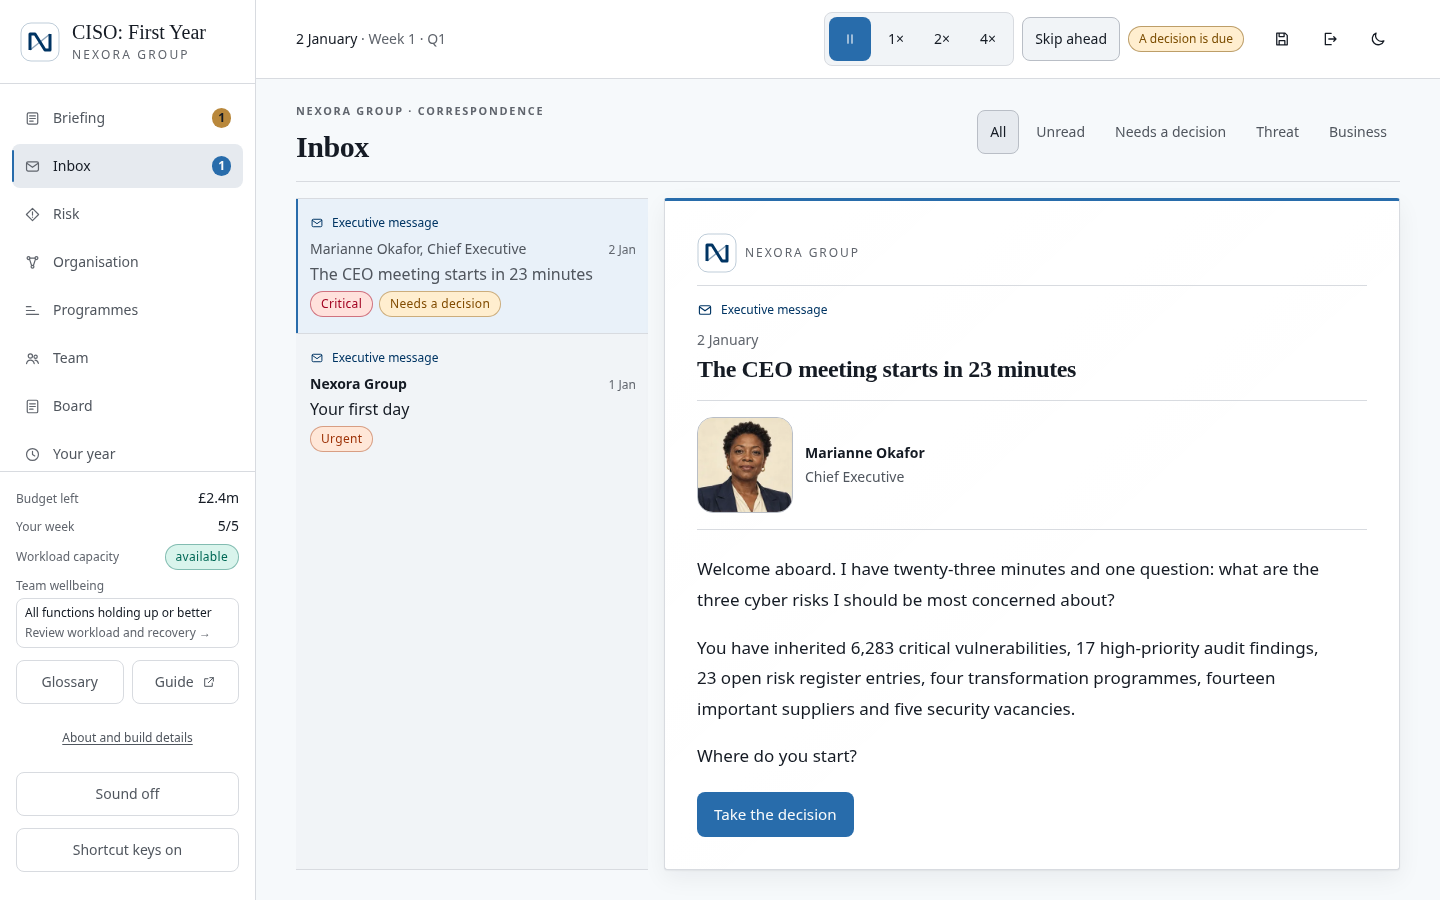
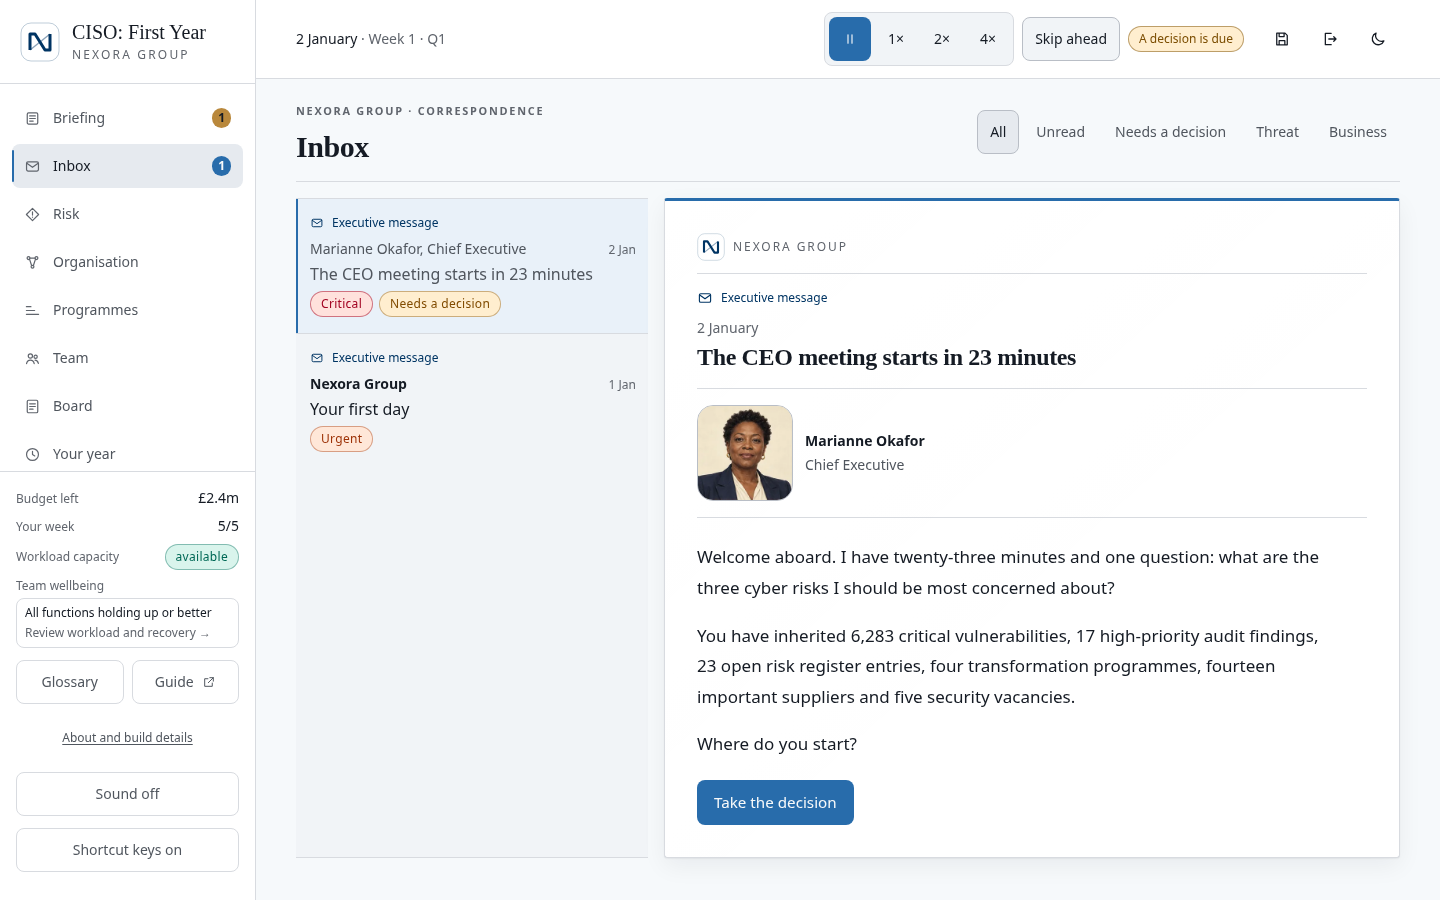
Polish compact dates, tab cues and programme layout

Changed region(s): [[0.4688, 0.2489, 0.9062, 0.9333]]

diff --git a/src/screens/risk/RiskScreen.tsx b/src/screens/risk/RiskScreen.tsx
@@ -3,12 +3,13 @@
  * assumptions underneath them — never a single flat spreadsheet.
  */
 import { useMemo, useState } from 'react'
-import { Badge, Button, Card, CardBody, EmptyState, Tab, TabList, TabPanel, Tabs } from '@/components/ui/primitives'
+import { Badge, Button, Card, CardBody, EmptyState, Tab, TabPanel, Tabs } from '@/components/ui/primitives'
 import { useCampaignIndex, useGameStore } from '@/store/game-store'
 import { assumptionViews, evidenceList, visibleRisks } from '@/store/selectors'
 import { InvestigationPanel } from '@/components/risk/InvestigationPanel'
 import { HypothesisWorkspace } from '@/components/risk/HypothesisWorkspace'
 import { PatternNotice } from '@/components/risk/PatternNotice'
+import { RiskTabStrip } from '@/components/risk/RiskTabStrip'
 import { RiskDetail } from '@/components/risk/RiskDetail'
 import { RISK_BAND_LABEL } from '@/game/risk/bands'
 import { bandTone, confidenceTone, evidenceSourceLabel, shortDate, statusLabel, trendBadge } from '@/lib/formatting/labels'
@@ -40,7 +41,7 @@ export function RiskScreen() {
       </header>
 
       <Tabs value={tab} onChange={setTab}>
-        <TabList label="Risk workspace" className="risk-tabs">
+        <RiskTabStrip>
           {/* The count is what the tab lists: it counted open risks only, and
               read 11 over a list of 13 to 15 (AI second-year re-test). */}
           <Tab value="risks" count={risks.length}>Risk scenarios</Tab>
@@ -48,8 +49,7 @@ export function RiskScreen() {
           <Tab value="hypotheses">Hypotheses</Tab>
           <Tab value="investigate">Investigate</Tab>
           <Tab value="assumptions" count={failedAssumptions}>Assumptions</Tab>
-        </TabList>
-        <p className="mt-1 text-right text-xs text-ink-faint md:hidden">Swipe for more tabs →</p>
+        </RiskTabStrip>
 
         <TabPanel value="risks">
           {risks.length === 0 ? (
@@ -74,8 +74,8 @@ export function RiskScreen() {
                       <h3 className="font-medium text-balance">{risk.title}</h3>
                       <p className="mt-1 line-clamp-2 text-sm text-ink-muted text-pretty">{risk.statement}</p>
                       <div className="risk-comparison-grid mt-3">
-                        <div><p className="comparison-label">Residual risk</p><Badge tone={bandTone(risk.band)}>{RISK_BAND_LABEL[risk.band]} residual</Badge></div>
-                        <div><p className="comparison-label">Confidence</p><Badge tone={confidenceTone(risk.confidence)} glyph={false}>{risk.confidence} confidence</Badge></div>
+                        <div><p className="comparison-label">Residual risk</p><Badge tone={bandTone(risk.band)}>{RISK_BAND_LABEL[risk.band]}</Badge></div>
+                        <div><p className="comparison-label">Confidence</p><Badge tone={confidenceTone(risk.confidence)} glyph={false}>{risk.confidence}</Badge></div>
                         <div><p className="comparison-label">Owner</p><p className="text-sm">{risk.ownerName}</p></div>
                         <div><p className="comparison-label">Next review</p><p className={cn('text-sm', risk.reviewDue && 'font-medium text-warning')}>{risk.reviewDue ? 'Due now' : `in ${risk.daysUntilReview} days`}</p></div>
                       </div>

diff --git a/src/screens/inbox/InboxScreen.tsx b/src/screens/inbox/InboxScreen.tsx
@@ -145,7 +145,7 @@ export function InboxScreen() {
                       : 'border-transparent hover:bg-surface-2',
                   )}
                 >
-                  <p className={`message-kind message-kind-${MESSAGE_KIND[message.type].style} mb-2 flex items-center gap-2 text-xs font-medium`}>
+                    <p className={`message-kind message-kind-${MESSAGE_KIND[message.type].style} mb-2 flex items-center gap-2 text-xs font-medium`}>
                     <Icon name={MESSAGE_KIND[message.type].icon} size={14} />{MESSAGE_KIND[message.type].label}
                   </p>
                   <div className="flex items-baseline justify-between gap-2">
@@ -174,14 +174,16 @@ export function InboxScreen() {
             <Card id="message-reader" ref={reader} className={`correspondence message-reader scroll-mt-36 message-reader-${MESSAGE_KIND[selected.type].style} md:sticky md:top-24 md:self-start`}>
               <CardBody>
                 <div className="mb-4 md:hidden"><Button variant="secondary" size="sm" onClick={backToMessages}>Back to messages</Button></div>
-                <div className="mb-4 flex items-center gap-2 border-b border-line pb-3">
-                  <NexoraMark className="h-7 w-7" />
+                <div className="message-letterhead mb-2 flex items-center gap-2 border-b border-line pb-2 md:mb-4 md:pb-3">
+                  <NexoraMark className="h-5 w-5 md:h-7 md:w-7" />
                   <span className="text-xs font-medium uppercase tracking-[0.16em] text-ink-faint">Nexora Group</span>
                 </div>
-                <p className={`message-kind message-kind-${MESSAGE_KIND[selected.type].style} mb-3 flex items-center gap-2 text-xs font-medium`}>
-                  <Icon name={MESSAGE_KIND[selected.type].icon} size={16} />{MESSAGE_KIND[selected.type].label}
-                </p>
-                <p className="text-sm text-ink-faint">{formatGameDate(selected.day).label}</p>
+                <div className="message-metadata">
+                  <p className={`message-kind message-kind-${MESSAGE_KIND[selected.type].style} mb-1 flex items-center gap-2 text-xs font-medium md:mb-3`}>
+                    <Icon name={MESSAGE_KIND[selected.type].icon} size={16} />{MESSAGE_KIND[selected.type].label}
+                  </p>
+                  <p className="text-xs text-ink-faint md:text-sm">{formatGameDate(selected.day).label}</p>
+                </div>
                 <h2 ref={heading} tabIndex={-1} className="mt-1 font-display text-2xl leading-tight text-balance">{selected.subject}</h2>
                 <div className="sender-signature mt-2 md:mt-4 flex items-center gap-3">
                   {sender && <PersonPortrait key={sender.id} id={sender.id} name={sender.name} size={important ? 'large' : 'small'} />}

diff --git a/tests/e2e/reading-flow.spec.ts b/tests/e2e/reading-flow.spec.ts
@@ -46,6 +46,10 @@ test('risk cards align the same four public facts and programmes retain focus wh
   await goTo(page, 'Risk')
   const cards = page.locator('.risk-comparison-grid')
   expect(await cards.count()).toBeGreaterThan(0)
+  for (const badge of await cards.locator('.rounded-full').all()) {
+    await expect(badge).not.toContainText(/residual|confidence/)
+    expect(await badge.evaluate((element) => element.getBoundingClientRect().height)).toBeLessThan(40)
+  }
   for (const card of await cards.all()) await expect(card.locator('.comparison-label')).toHaveText(['Residual risk', 'Confidence', 'Owner', 'Next review'])
   await expectNoHorizontalScroll(page)
   await goTo(page, 'Programmes')
@@ -72,6 +76,11 @@ test('compact resources stay readable and the final risk tab remains reachable b
       expect(await value.evaluate((element) => element.scrollWidth <= element.clientWidth)).toBe(true)
     }
   }
+  if (page.viewportSize()!.width < 640) {
+    const date = page.locator('.header-date')
+    expect(await date.evaluate((element) => element.scrollWidth <= element.clientWidth)).toBe(true)
+    await expect(date).toHaveText(/\d+ [A-Z][a-z]{2} · W\d+/)
+  }
   await goTo(page, 'Risk')
   await expect(page.getByRole('heading', { name: 'Select a risk', exact: true })).toBeVisible()
   const tabs = page.getByRole('tablist', { name: 'Risk workspace' })
@@ -82,13 +91,21 @@ test('compact resources stay readable and the final risk tab remains reachable b
   await expect(last).toBeFocused()
   await expect(last).toHaveAttribute('aria-selected', 'true')
   await expect(last).toBeInViewport()
+  if (page.viewportSize()!.width < 768) await expect(page.locator('.risk-tab-cue')).toHaveText('← More tabs')
   await last.press('Home')
   await expect(first).toBeFocused()
   await expect(first).toBeInViewport()
   if (page.viewportSize()!.width < 768) {
     const rows = await tabs.getByRole('tab').evaluateAll((elements) => elements.map((element) => Math.round(element.getBoundingClientRect().top)))
     expect(new Set(rows).size).toBe(1)
-    await expect(page.getByText('Swipe for more tabs →')).toBeVisible()
+    await expect(page.locator('.risk-tab-cue')).toHaveText('More tabs →')
+    await tabs.evaluate((element) => { element.scrollLeft = (element.scrollWidth - element.clientWidth) / 2 })
+    await expect(page.locator('.risk-tab-cue')).toHaveText('← More tabs →')
+    const viewport = page.viewportSize()!
+    await page.setViewportSize({ ...viewport, width: 760 })
+    await expect(page.locator('.risk-tab-cue')).toBeEmpty()
+    await page.setViewportSize(viewport)
+
   }
   await expectNoHorizontalScroll(page)
 })

diff --git a/src/components/layout/AppShell.tsx b/src/components/layout/AppShell.tsx
@@ -19,7 +19,7 @@ import { NexoraMark } from '@/components/game/NexoraMark'
 import { RecordingControl } from '@/components/game/RecordingControl'
 import { SoundToggle } from '@/components/game/SoundToggle'
 import { ShortcutsToggle } from '@/components/game/ShortcutsToggle'
-import { attentionLeft, money } from '@/lib/formatting/labels'
+import { attentionLeft, money, shortDate } from '@/lib/formatting/labels'
 import { capacityTone } from '@/lib/formatting/labels'
 
 export function AppShell({ children }: { children: ReactNode }) {
@@ -338,12 +338,14 @@ function ShellHeader() {
       {/* Phones share the second row between clock controls and labelled resources. */}
       <div className="mx-auto flex w-full max-w-6xl flex-wrap items-center gap-x-2 gap-y-1.5 px-4 py-2 sm:gap-x-4 sm:px-6 sm:py-3">
         <div className="order-1 min-w-0 flex-1 basis-[calc(100%-10rem)] sm:basis-auto lg:flex-none">
-          <p className="truncate text-sm font-medium">
+          <p className="header-date text-sm font-medium sm:hidden">
+            <span aria-hidden="true">{shortDate(state.currentDay)} · W{view.weekLabel.replace('Week ', '')}</span>
+            <span className="sr-only">{view.dateLabel}, {view.weekLabel}, quarter {view.quarter}</span>
+          </p>
+          <p className="hidden truncate text-sm font-medium sm:block">
             {view.dateLabel}
             <span className="text-ink-faint">
               {' · '}
-              {/* On a phone the line has room for the date and the week; the
-                  Briefing's masthead says which year it is. */}
               {view.yearLabel && <span className="hidden sm:inline">{view.yearLabel} · </span>}
               {view.weekLabel} · Q{view.quarter}
             </span>

diff --git a/src/components/risk/RiskTabStrip.tsx b/src/components/risk/RiskTabStrip.tsx
@@ -1,0 +1,28 @@
+import { useEffect, useRef, useState, type ReactNode } from 'react'
+import { TabList } from '@/components/ui/primitives'
+
+/** Describe only the tabs actually hidden beyond either edge. */
+export function RiskTabStrip({ children }: { children: ReactNode }) {
+  const strip = useRef<HTMLDivElement>(null)
+  const [cue, setCue] = useState('')
+  useEffect(() => {
+    const element = strip.current
+    if (!element) return
+    const measure = () => {
+      const before = element.scrollLeft > 1
+      const after = element.scrollWidth - element.clientWidth - element.scrollLeft > 1
+      setCue(before && after ? '← More tabs →' : before ? '← More tabs' : after ? 'More tabs →' : '')
+    }
+    const observer = typeof ResizeObserver === 'undefined' ? undefined : new ResizeObserver(measure)
+    observer?.observe(element)
+    element.querySelectorAll('[role="tab"]').forEach((tab) => observer?.observe(tab))
+    element.addEventListener('scroll', measure, { passive: true })
+    window.addEventListener('resize', measure)
+    measure()
+    return () => { observer?.disconnect(); element.removeEventListener('scroll', measure); window.removeEventListener('resize', measure) }
+  }, [])
+  return <>
+    <TabList ref={strip} label="Risk workspace" className="risk-tabs">{children}</TabList>
+    <p className="risk-tab-cue mt-1 min-h-4 text-right text-xs text-ink-faint md:hidden" aria-hidden="true">{cue}</p>
+  </>
+}

diff --git a/src/index.css b/src/index.css
@@ -666,3 +666,19 @@
   .message-reader .sender-signature { padding-block: 0.5rem; gap: 0.75rem; }
   .message-reader .sender-signature > span[aria-hidden] { width: 3.5rem; height: 3.5rem; border-radius: 0.75rem; }
 }
+
+@media (max-width: 767px) {
+  .message-metadata { display: flex; flex-wrap: wrap; align-items: baseline; gap: 0.25rem 0.75rem; }
+  .message-metadata .message-kind { margin-bottom: 0; }
+  .message-letterhead { letter-spacing: 0.1em; }
+}
+@media (min-width: 1024px) {
+  .programme-summary { display: grid; grid-template-columns: minmax(0,1.4fr) minmax(0,1fr) minmax(0,1fr); align-items: start; gap: 1.5rem; }
+  .programme-summary > * { margin-block: 0; }
+}
+@media (min-width: 1280px) {
+  .programme-active .programme-journey ol { display: grid; grid-template-columns: repeat(auto-fit,minmax(9rem,1fr)); gap: 1.5rem; }
+  .programme-active .journey-step { grid-template-columns: minmax(0,1fr); gap: 0.5rem; }
+  .programme-active .journey-step > div { padding-bottom: 0; }
+  .programme-active .journey-step:not(:last-child)::before { top: 0.85rem; bottom: auto; left: 1.75rem; right: -1.5rem; border-left: 0; border-top: 1px solid var(--line-strong); }
+}

diff --git a/src/components/ui/primitives.tsx b/src/components/ui/primitives.tsx
@@ -17,6 +17,7 @@ import {
   type ComponentPropsWithRef,
   type HTMLAttributes,
   type ReactNode,
+  type Ref,
 } from 'react'
 import { cn } from '@/lib/utils/cn'
 import { EmptyIllustration } from './EmptyIllustration'
@@ -362,7 +363,7 @@ export function Tabs({
   )
 }
 
-export function TabList({ children, label, className }: { children: ReactNode; label: string; className?: string }) {
+export function TabList({ children, label, className, ref }: { children: ReactNode; label: string; className?: string; ref?: Ref<HTMLDivElement> }) {
   const onKeyDown = useCallback((event: React.KeyboardEvent<HTMLDivElement>) => {
     if (!['ArrowRight', 'ArrowLeft', 'Home', 'End'].includes(event.key)) return
     const tabs = Array.from(event.currentTarget.querySelectorAll<HTMLElement>('[role="tab"]'))
@@ -383,6 +384,7 @@ export function TabList({ children, label, className }: { children: ReactNode; l
 
   return (
     <div
+      ref={ref}
       role="tablist"
       aria-label={label}
       onKeyDown={onKeyDown}

diff --git a/src/screens/programmes/ProgrammesScreen.tsx b/src/screens/programmes/ProgrammesScreen.tsx
@@ -74,8 +74,8 @@ export function ProgrammesScreen() {
             {groupedLive.map(({ programme, label, count }) => (
               <li key={programme.id}>
                 {label && <h2 className="portfolio-divider"><span>{label}</span>{' '}<span className="text-sm font-normal tabular-nums text-ink-muted">{count} {count === 1 ? 'programme' : 'programmes'}</span></h2>}
-                <article className="programme-row grid gap-5 py-6 lg:grid-cols-2 lg:gap-8">
-                  <div className="space-y-3">
+                <article className="programme-row programme-active grid gap-5 py-6">
+                  <div className="programme-summary space-y-3">
                     <div className="flex flex-wrap items-start justify-between gap-2">
                       <div>
                         <h3 className="font-display text-xl leading-tight text-balance">{programme.name}</h3>

diff --git a/tests/e2e/campaign.spec.ts b/tests/e2e/campaign.spec.ts
@@ -811,7 +811,7 @@ test.describe('a first year at Nexora', () => {
 
     // And every mark is also a sentence with its day on it.
     await page.getByText('Read the year as a list').click()
-    await expect(page.getByText(/\b\d{1,2} (Jan|Feb|Mar|Apr|May|Jun|Jul|Aug|Sep|Oct|Nov|Dec)\b/).first()).toBeVisible()
+    await expect(figure.locator('details[open]').getByRole('listitem').filter({ hasText: /\b\d{1,2} (Jan|Feb|Mar|Apr|May|Jun|Jul|Aug|Sep|Oct|Nov|Dec)\b/ }).first()).toBeVisible()
   })
 
   test('the briefing leads with what needs an answer, not with four gauges', async ({ page }) => {

diff --git a/AGENTS.md b/AGENTS.md
@@ -32,6 +32,15 @@ changes.
 
 ## Artwork
 
+- Phone date labels use the existing calendar formatter and compact week text;
+  retain the full date/week/quarter in accessible text. Risk badges beneath
+  labelled comparison cells omit repeated field names, keeping qualitative bands.
+- Risk tab cues reflect actual overflow at each edge and update on scroll/resize.
+  Retain keyboard navigation and vertical gesture propagation.
+- Keep message type and date readable in the compact phone masthead. Active
+  programme summaries and delivery paths share the desktop width; milestone
+  order and completion remain recorded facts, with vertical phone fallbacks.
+
 - Compact header resources retain visible Budget and Attention labels and full
   values at 320px. Keep clock, save and theme controls within two phone rows.
 - Risk tabs may scroll horizontally below 768px, with a visible discovery cue,

diff --git a/README.md b/README.md
@@ -36,6 +36,12 @@ beginning, middle and end of the year. These are a chronological sample, not
 a score or a claim about which choices caused the outcome. The full timeline,
 judgement log, sharing and printable review remain available.
 
+Phone dates use a short month and week label, with full calendar context for
+assistive technology. Risk badges omit words repeated in their field labels;
+scroll cues point only toward hidden tabs. Inbox mastheads use less phone space.
+Active programmes use a full-width desktop summary and delivery path, with
+milestones stacked on smaller screens.
+
 The phone header shows labelled budget and attention values beside the clock
 controls. Risk tabs use one horizontal row below 768px, with a swipe cue and
 arrow-key/Home/End navigation. The empty inspector explains what selecting a

diff --git a/CHANGELOG.md b/CHANGELOG.md
@@ -10,6 +10,10 @@ The game as it stands after the roadmap's engineering phases
 (`docs/ROADMAP.md`, Phases 0–7). Version 0.1.0 until the owner tags a release.
 
 ### Playing
+- Phone dates and risk badges are shorter without losing calendar context or
+  qualitative bands. Risk tab cues follow the actual scroll position. Compact
+  Inbox mastheads bring text closer, and full-width desktop programme summaries
+  and delivery paths reduce unused column space.
 - Compact phone resources have readable labels and values beside the clock.
   Risk tabs scroll in one row with a discovery cue and keyboard navigation;
   the inspector has a clearer selection prompt. Programme dividers and mobile
